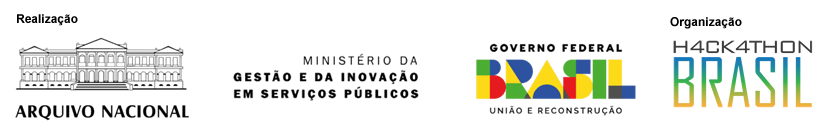
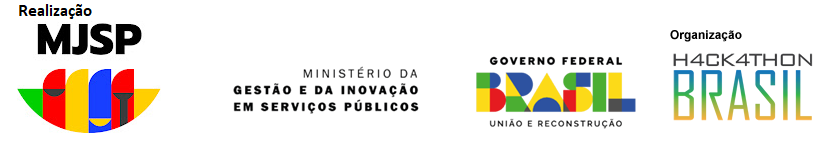
homepage

diff --git a/resources/views/index.blade.php b/resources/views/index.blade.php
@@ -3,7 +3,7 @@
 
 <head>
     <meta charset="utf-8">
-    <title>Arquivo Nacional</title>
+    <title>+Seguro</title>
     <meta name="description" content="">
     <meta name="viewport" content="width=device-width, initial-scale=1">
 
@@ -26,44 +26,84 @@
     <link rel="stylesheet" href="{{ url('assets/css/login-register.css')}}">
 
     <meta name="theme-color" content="#fafafa">
+       <style>
+        body {
+            font-family: Arial, sans-serif;
+            background-color: #f8f9fa;
+            color: #333;
+        }
+        .container {
+            max-width: 900px;
+            margin: 20px auto;
+            padding: 20px;
+            text-align: center;
+        }
+        .features {
+            display: flex;
+            flex-wrap: wrap;
+            gap: 20px;
+            margin-top: 30px;
+            justify-content: center;
+        }
+        .feature {
+            background: #ffffff;
+            box-shadow: 0 4px 8px rgba(0,0,0,0.1);
+            padding: 20px;
+            border-radius: 8px;
+            text-align: left;
+            width: 280px;
+            transition: transform 0.3s;
+        }
+        .feature:hover {
+            transform: translateY(-5px);
+        }
+        .feature-icon {
+            font-size: 2.5em;
+            color: #007bff;
+            margin-bottom: 15px;
+        }
+        .feature-title {
+            font-size: 1.2em;
+            margin-bottom: 10px;
+            color: #333;
+        }
+    </style>
 </head>
 
-
+@include('painel.layout.header-site')
 <div align="center">
-<img src="{{ url('assets/img/logo-grande.png') }}" height="190">
+    <br>
+<img src="{{ url('assets/img/MJSP.png') }}" height="190">
 </div>
 <br>
 
 <div class="container">
-
-    <div class="user-stats-section" style="justify-content: center !important;">
-        <a href="{{ route('login_site') }}">
-            <div class="stat-item blue-gradient-diagonal" style="width: 400px; margin-right:20px">
-                <div class="stat-icon"><svg class="crumina-icon">
-                        <use xlink:href="#face-id-icon"></use>
-                    </svg></div>
-                <div class="stat-info">
-                    <div class="stat-number">Desafio Conexão Cidadã</div>
-                    <div class="stat-description">Ajude a moldar o futuro da documentação do Arquivo Nacional, participe e ganhe NFT exclusivos como recompensa.
-
-                    </div>
-                </div>
-            </div>
-        </a>
-        <a href="{{ route('ntf.index') }}">
-            <div class="stat-item blue-gradient-diagonal" style="width: 400px;">
-                <div class="stat-icon"><svg class="crumina-icon">
-                        <use xlink:href="#dollar-icon"></use>
-                    </svg></div>
-                <div class="stat-info">
-                    <div class="stat-number">Marketplace Arquivo Nacional</div>
-                    <div class="stat-description">Explore o nosso Marketplace de NFT, repleto de itens e coleções exclusivas, Compre, Troque e Venda.
-
-                    </div>
-                </div>
-            </div>
-        </a>
+    <!-- Hero Section -->
+    <div class="features">
+        <div class="feature">
+            <div class="feature-icon"><i class="fas fa-user-shield"></i></div>
+            <div class="feature-title">Proteção de Identidade</div>
+            <p>Mantenha sua identidade segura ao enviar informações confidenciais para a polícia.</p>
+        </div>
+        <div class="feature">
+            <div class="feature-icon"><i class="fas fa-camera"></i></div>
+            <div class="feature-title">Envio de Mídias</div>
+            <p>Envie fotos e vídeos diretamente para ajudar nas investigações, sem complicações.</p>
+        </div>
+        <div class="feature">
+            <div class="feature-icon"><i class="fas fa-sync"></i></div>
+            <div class="feature-title">Atualizações em Tempo Real</div>
+            <p>Receba feedback sobre o status da investigação e atualizações em tempo real.</p>
+        </div>
+        <div class="feature">
+            <div class="feature-icon"><i class="fas fa-shield-alt"></i></div>
+            <div class="feature-title">Segurança e Confiabilidade</div>
+            <p>Plataforma confiável com criptografia de ponta-a-ponta para proteger seus dados.</p>
+        </div>
     </div>
+
+  
+  
 </div>
 <br>
 <div align="center">

diff --git a/resources/views/painel/produtos/sales.blade.php b/resources/views/painel/produtos/sales.blade.php
@@ -16,7 +16,7 @@
             @elseif($request->id == 5)
             <h2>Entrada AN</h2>
             @else
-            <h2>Entre em contato com o arquivo nacional </h2>
+            <h2>Entre em contato com o +Seguro </h2>
             @endif
 
 
@@ -42,7 +42,7 @@
                     COMUM
                 </div>
                 @else
-                <h2>Entre em contato com o arquivo nacional </h2>
+                <h2>Entre em contato com o +Seguro </h2>
                 @endif
 
 
@@ -78,7 +78,7 @@
             <img src="{{ url('assets/img/nft-5.png') }}" alt="Product">
             @else
             <img src="{{ url('assets/img/logo-ver.png') }}" alt="Product">
-            <h3>Entre em contato com o arquivo nacional </h3>
+            <h3>Entre em contato com o +Seguro </h3>
             @endif
         </div>
 
@@ -118,15 +118,15 @@
 
                                 @elseif($request->id == 4)
                                    <div class="title h6">Logo AN Verde</div>
-                                <p>O logo do Arquivo Nacional é uma representação visual marcante e simbólica da instituição. Com sua combinação única de elementos gráficos e cores, o logo transmite a importância histórica e a relevância cultural do Arquivo Nacional como guardião e preservador da memória nacional.</p>
+                                <p>O logo do +Seguro é uma representação visual marcante e simbólica da instituição. Com sua combinação única de elementos gráficos e cores, o logo transmite a importância histórica e a relevância cultural do +Seguro como guardião e preservador da memória nacional.</p>
 
                                 @elseif($request->id == 5)
                                    <div class="title h6">Entrada AN</div>
-                                <p>A entrada do Arquivo Nacional do Brasil é mais do que um simples portal físico para o edifício que abriga uma parte importante da história do país. É um marco que saúda os visitantes e os convida a adentrar um mundo de memórias, documentos e narrativas que ajudam a compor a história do Brasil</p>
+                                <p>A entrada do +Seguro do Brasil é mais do que um simples portal físico para o edifício que abriga uma parte importante da história do país. É um marco que saúda os visitantes e os convida a adentrar um mundo de memórias, documentos e narrativas que ajudam a compor a história do Brasil</p>
 
                                 @else
                                 
-                                <h3>Entre em contato com o arquivo nacional </h3>
+                                <h3>Entre em contato com o +Seguro </h3>
                                 @endif
                              
 

diff --git a/resources/views/painel/layout/footer-site.blade.php b/resources/views/painel/layout/footer-site.blade.php
@@ -2,17 +2,37 @@
         @php
         $usuario = Session::get('usuario');
         @endphp
+        <style>
+            .logo {
+                display: flex;
+                align-items: center;
+            }
+
+            .logo-link {
+                display: flex;
+                align-items: center;
+                text-decoration: none;
+            }
+
+            .logo-text {
+                font-size: 31px;
+                font-weight: bold;
+                color: #333;
+            }
+
+        </style>
         <footer class="footer footer-margin">
             <div class="footer-wrapper container">
 
                 <div class="footer-content">
                     <div class="footer-row flex-space-between align-items-center">
                         <div class="logo">
-                            <a class="logo-link" href="01-home-ds.html">
-                                <div class="logo-img"><img src="{{ url('img/logo.png') }}" alt="logo"></div>
-                                <div class="logo-text">CriptoMeta</div>
+                            <a class="logo-link" href="01-home-ds.html" style="display: flex; align-items: center; text-decoration: none;">
+                                <img src="{{ url('assets/img/seguro-logo.png') }}" alt="logo" style="width: 80px; margin-right: 10px;">
+                                <div class="logo-text" style="font-size: 24px; font-weight: bold; color: #333;">+Seguro</div>
                             </a>
                         </div>
+
 
                     </div>
                     <br>
@@ -68,7 +88,7 @@
                 <!--  copyright section -->
                 <div class="footer-copyright flex-space-between">
                     <span class="copyright-text">
-                        CriptoMeta 2024 - Todos Direitos Reservados
+                        +Seguro 2024 - Todos Direitos Reservados
                     </span>
                 </div>
                 <!--  copyright section -->

diff --git a/resources/views/painel/layout/header-site.blade.php b/resources/views/painel/layout/header-site.blade.php
@@ -3,7 +3,7 @@
 
 <head>
     <meta charset="utf-8">
-    <title>Arquivo Nacional</title>
+    <title>+Seguro</title>
     <meta name="description" content="">
     <meta name="viewport" content="width=device-width, initial-scale=1">
 
@@ -44,14 +44,14 @@
         <nav class="border-bottom nav-ds smart-sticky">
             <div class="navigation-wrapper container flex-space-between align-items-center">
                 <div class="nav-left-hand-part">
-                    <img src="{{ url('assets/img/logo-pequeno.png') }}" alt="logo" height="120" style="margin-right: 60px;">
+                    <img src="{{ url('assets/img/MJSP.png') }}" alt="logo" height="81" style="margin-right: 60px;">
 
                     <!--  navigation menu -->
                     <ul class="navigation-menu">
                         <li class="menu-item"><a class="menu-link" href="{{route('home')}}">Home</a></li>
-                        <li class="menu-item"><a class="menu-link" href="{{route('ranking')}}">Ranking</a></li>
-                        <li class="menu-item"><a class="menu-link" href="{{route('ntf.index')}}">Market Place</a></li>
-                        <li class="menu-item"><a class="menu-link" href="{{route('home_site.index')}}">Demandas</a></li>
+                        <li class="menu-item"><a class="menu-link" href="{{route('ranking')}}">Label</a></li>
+                        <li class="menu-item"><a class="menu-link" href="{{route('ntf.index')}}">Label</a></li>
+                        <li class="menu-item"><a class="menu-link" href="{{route('home_site.index')}}">Label</a></li>
                     </ul>
                     <!--  navigation menu -->
                 </div>

diff --git a/resources/views/login.blade.php b/resources/views/login.blade.php
@@ -38,7 +38,7 @@
                     <div class="logo">
                         <a class="logo-link">
                             <div class="logo-img"><img src="{{ url('assets/img/logo-pequeno.png') }}" alt="logo"></div>
-                            <div class="logo-text">Arquivo Nacional</div>
+                            <div class="logo-text">+Seguro</div>
                         </a>
                     </div>
                     <!-- header logo -->

diff --git a/resources/views/painel/login.blade.php b/resources/views/painel/login.blade.php
@@ -11,7 +11,7 @@
     <meta NAME="robots" CONTENT="index, nofollow, noarchive">
     <meta name="csrf-token" content="{{ csrf_token() }}" />
 
-    <title>Painel de Controle - Arquivo Nacional</title>
+    <title>Painel de Controle - +Seguro</title>
     <link href="{{ url ('painel/dist/css/style.min.css') }}" rel="stylesheet">
 
 </head>
